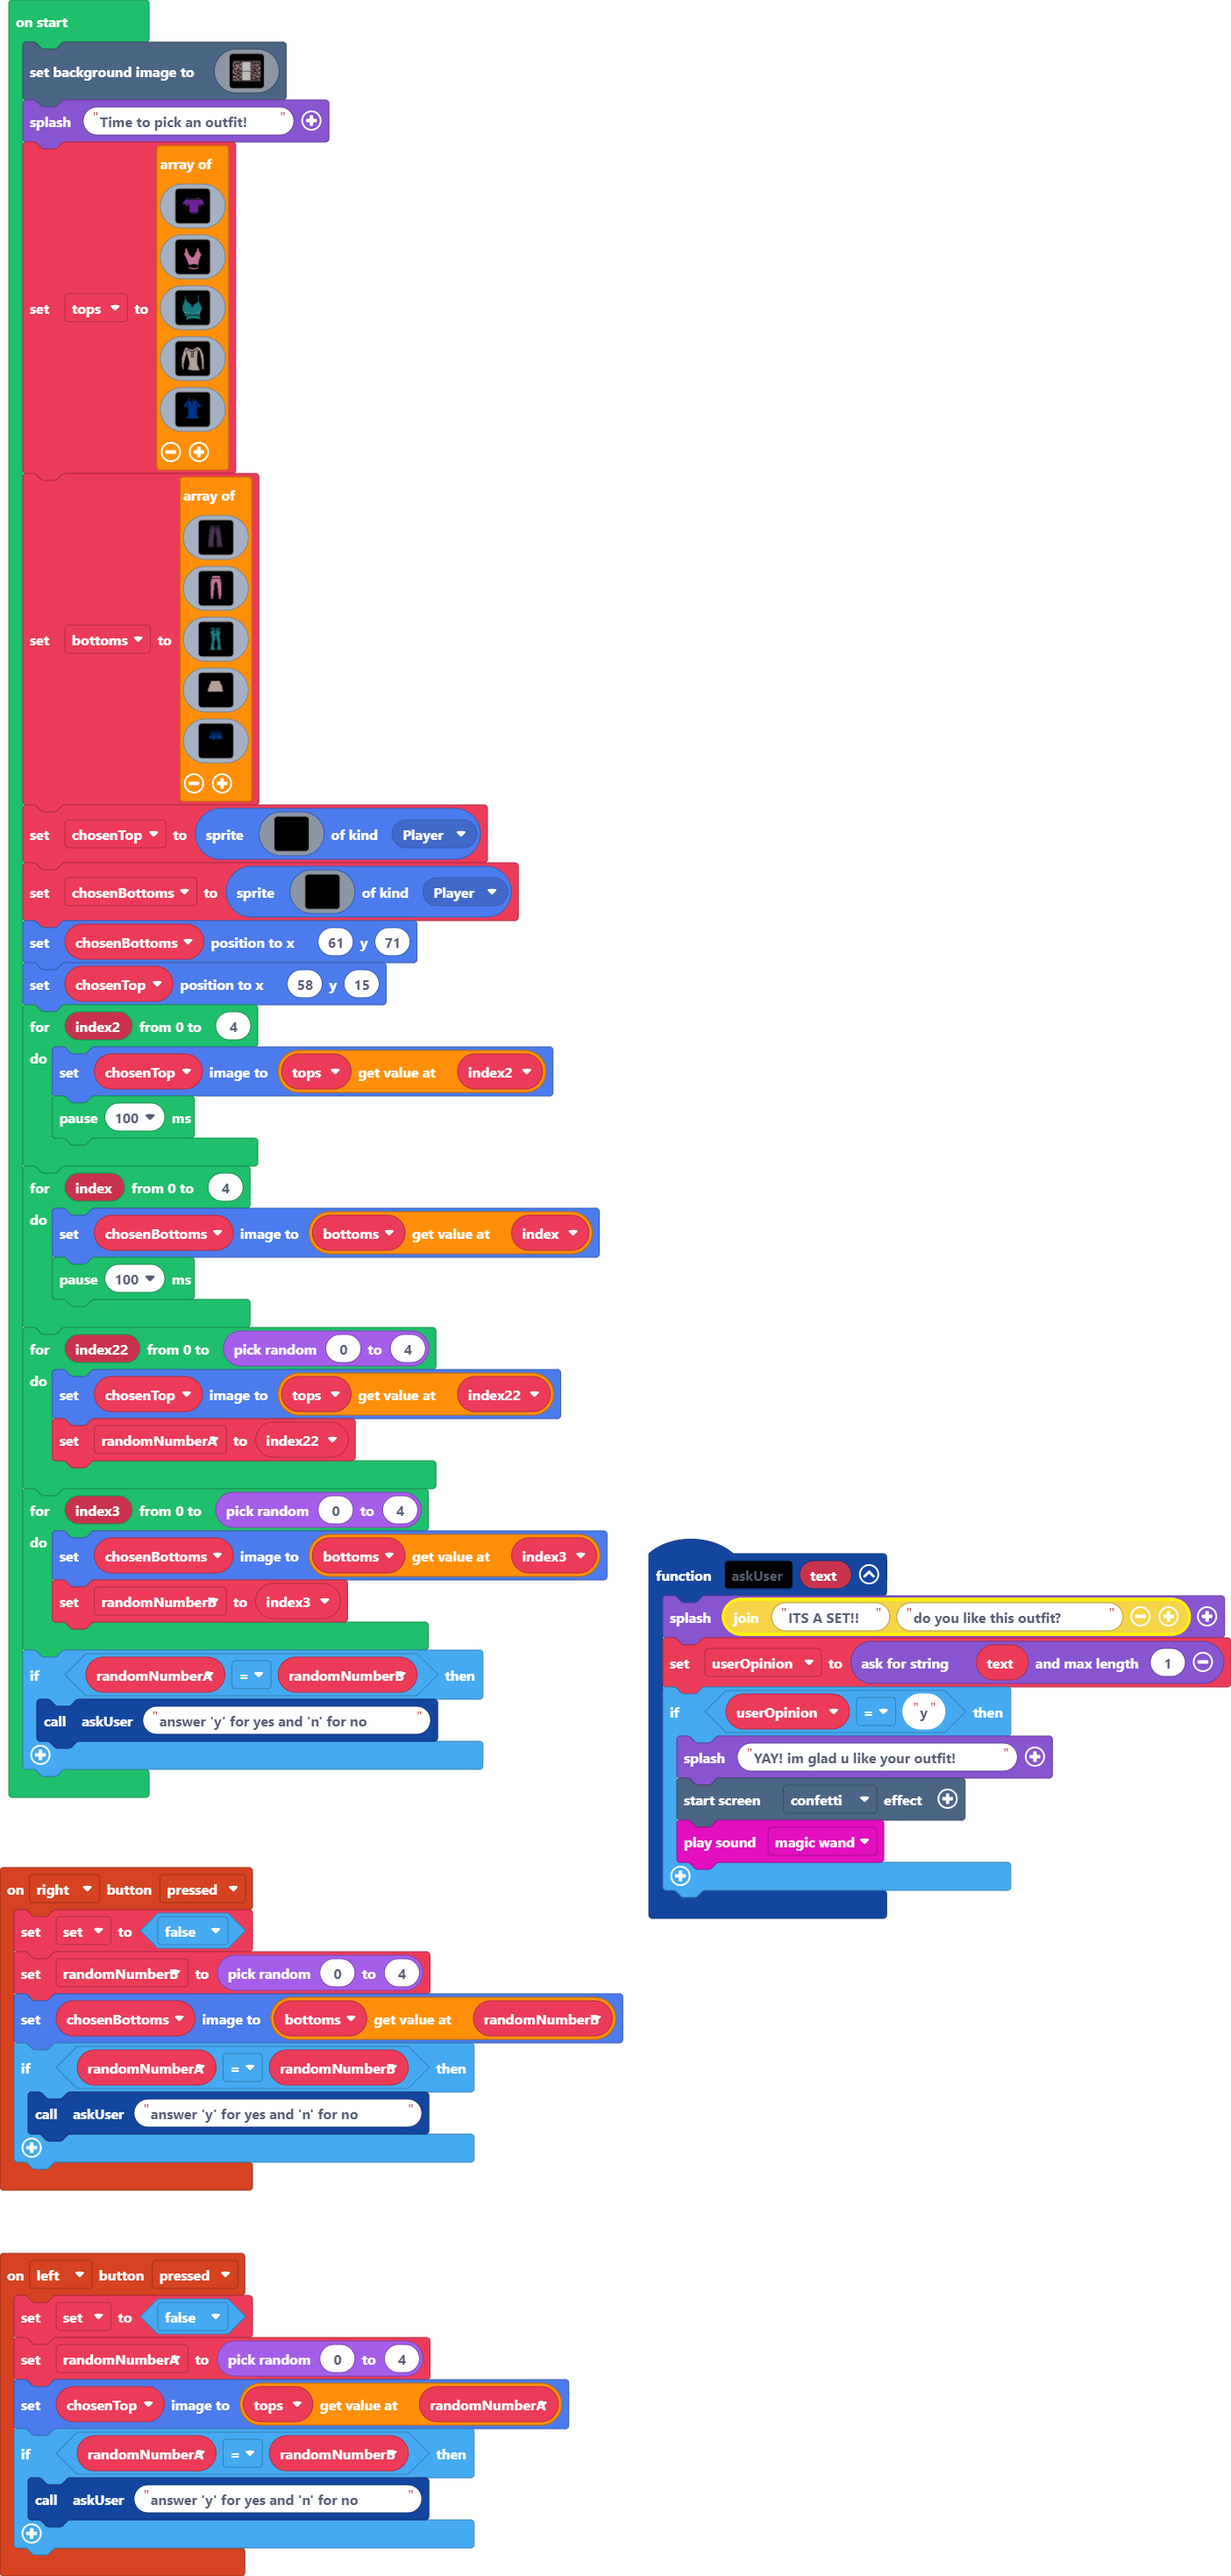
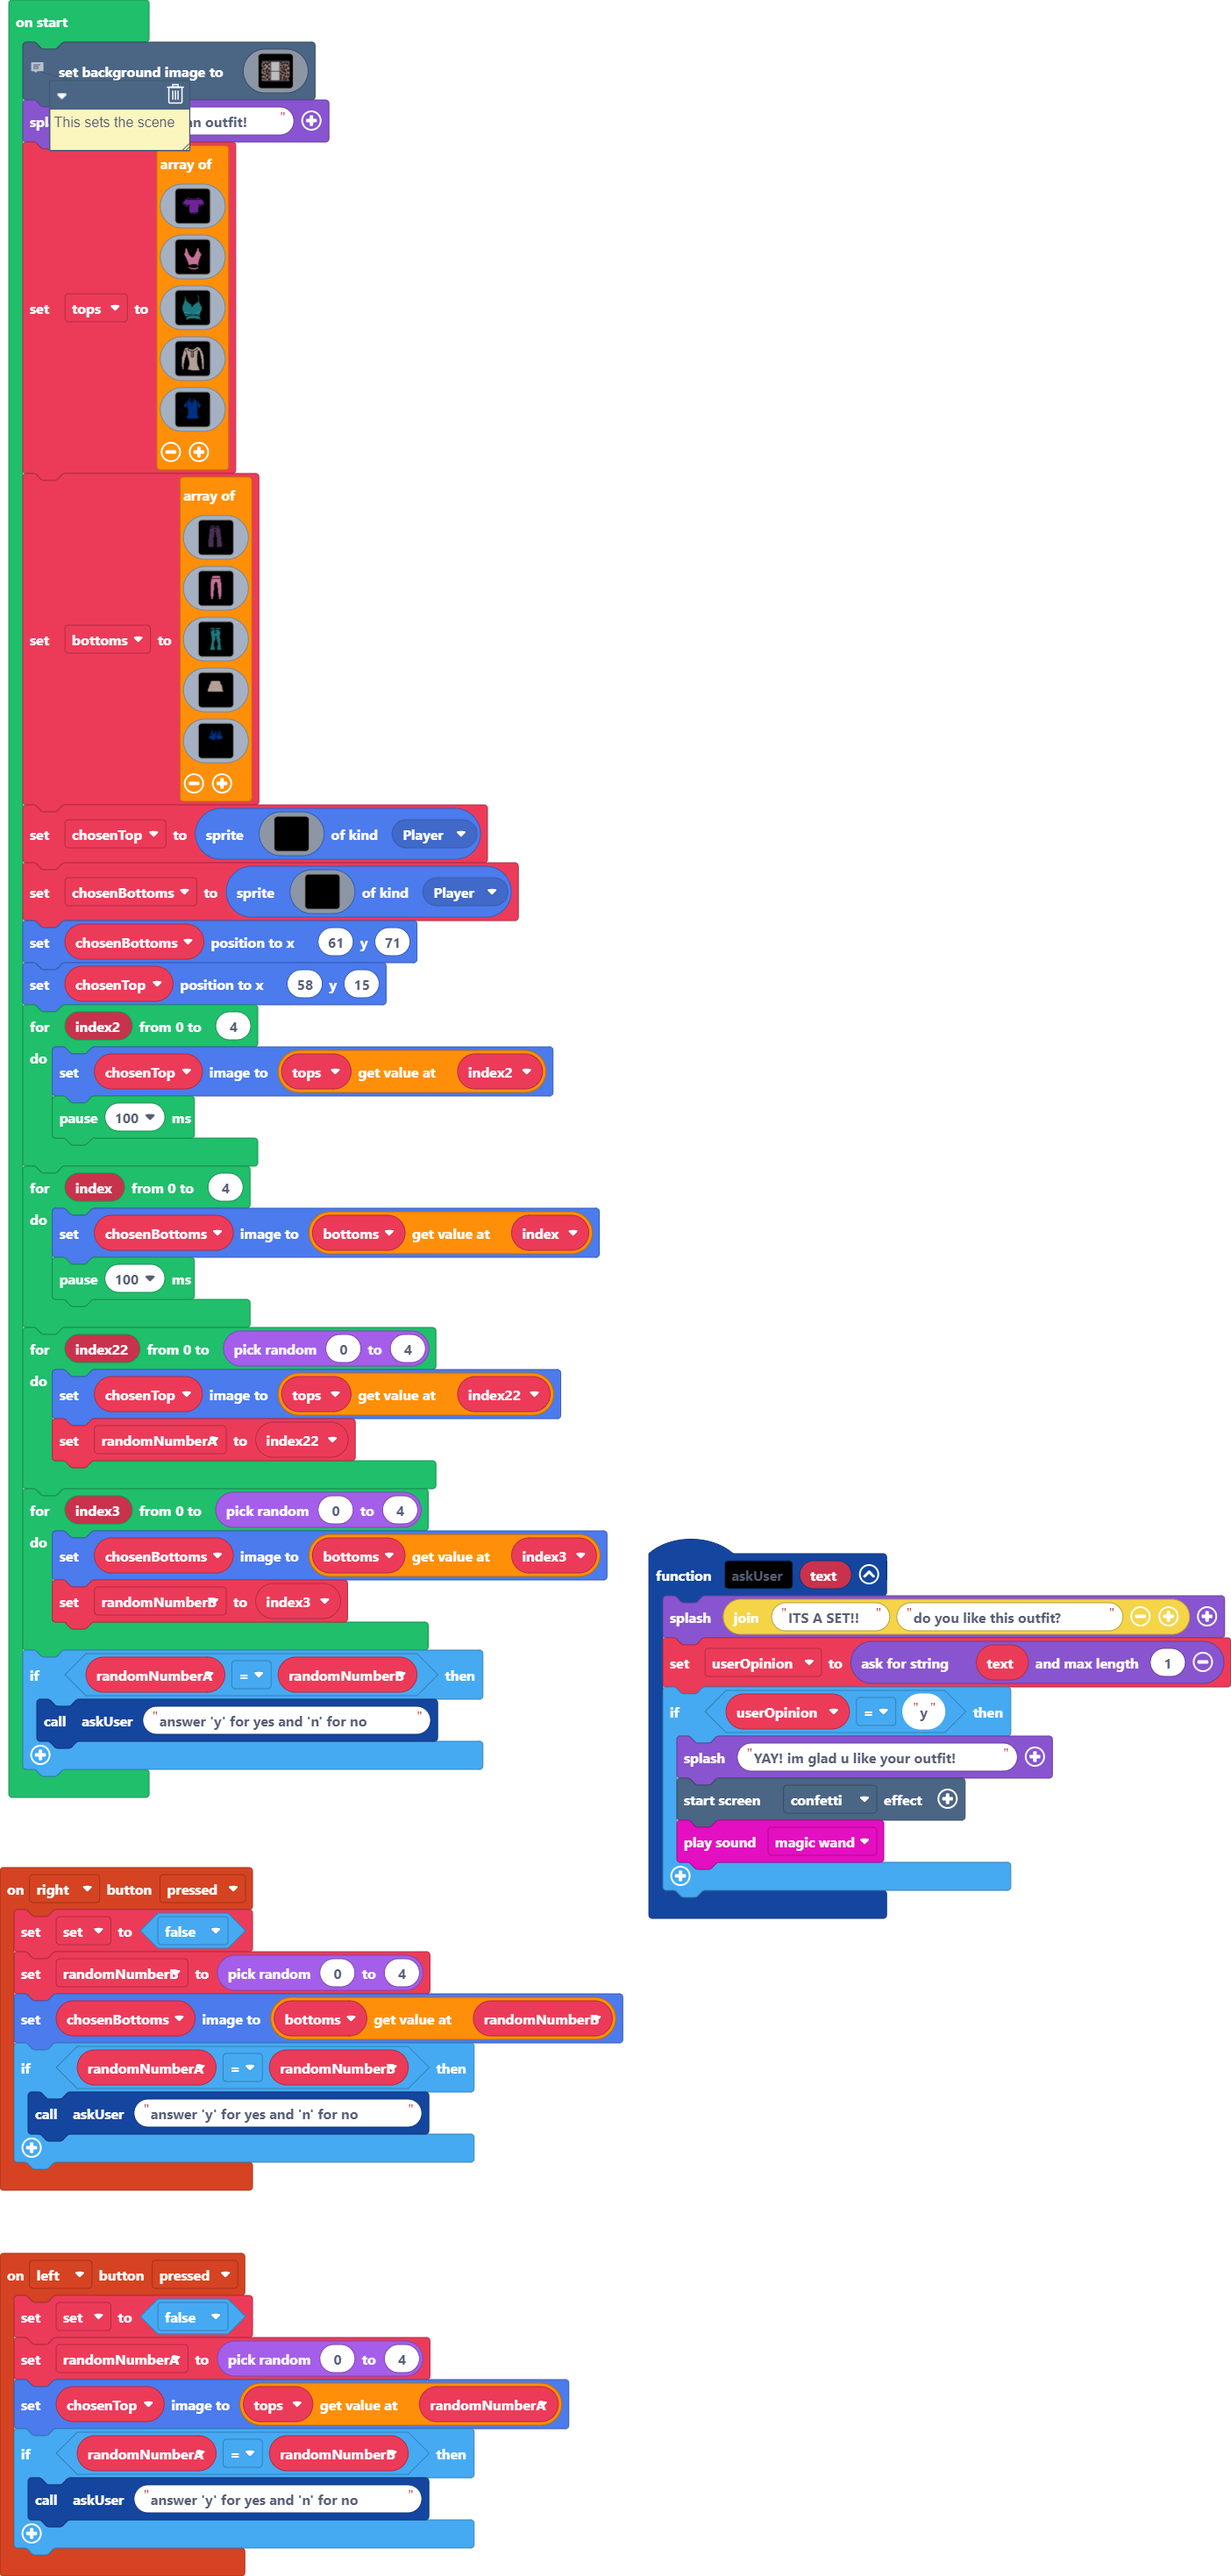
Update main.blocks, main.ts

Changed region(s): [[0.1531, 0.0, 0.2756, 0.0619], [0.0306, 0.031, 0.1531, 0.0619]]

diff --git a/main.ts b/main.ts
@@ -31,6 +31,7 @@ let chosenBottoms: Sprite = null
 let chosenTop: Sprite = null
 let bottoms: Image[] = []
 let tops: Image[] = []
+// This sets the scene
 scene.setBackgroundImage(img`
     ffffffffffffffffffffffffffffffffffffffffffffffffffffffffffffffffffffffffffffffffffffffffffffffffffffffffffffffffffffffffffffffffffffffffffffffffffffffffffffffff
     fccccccccccccccccccccccccccccccccccccccccccccccccccccccccccccccccccccccccccccccccccccccccccccccccccccccccccccccccccccccccccccccccccccccccccccccccccccccccccccccf
